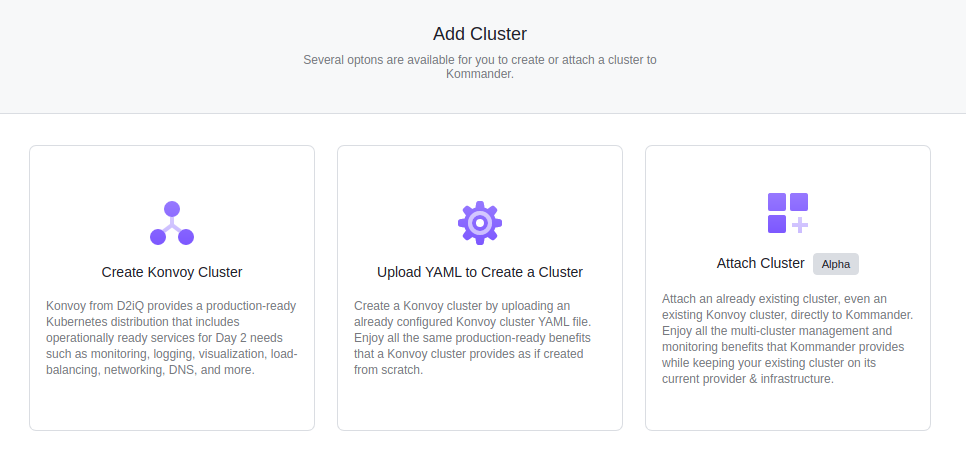
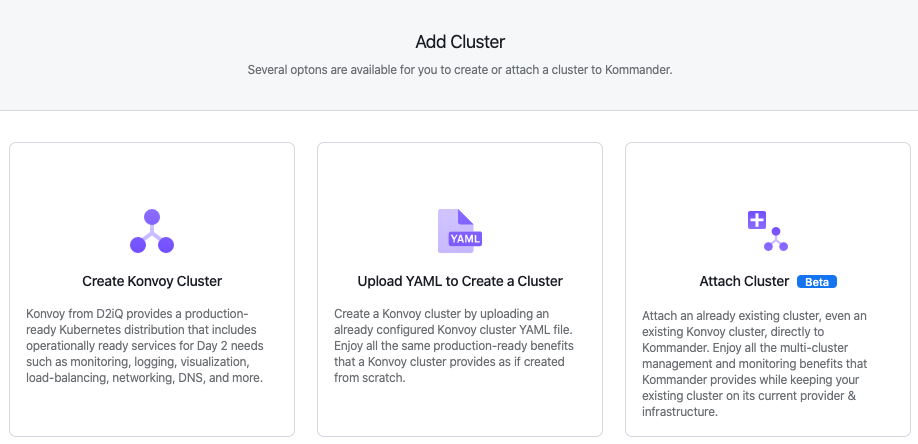
updating azure create docs

diff --git a/pages/ksphere/kommander/1.1.0-beta/clusters/creating-konvoy-cluster-azure/index.md b/pages/ksphere/kommander/1.1.0-beta/clusters/creating-konvoy-cluster-azure/index.md
@@ -6,9 +6,9 @@ menuWeight: 7
 excerpt: A guide for creating Konvoy clusters on Azure
 ---
 
-## Prerequisites
+## Before you begin
 
-Configured [Azure Infrastructure Provider](/ksphere/kommander/latest/operations/infrastructure-providers/#configuring-an-azure-infrastructure-provider)
+Configured [Azure Infrastructure Provider](/ksphere/kommander/1.1.0-beta/operations/infrastructure-providers/configure-azure-infrastructure-provider/)
 
 ## Simplified Cluster Creation on Azure
 
@@ -20,17 +20,12 @@ From the **Add Cluster** menu, select the **Create Konvoy Cluster** and provide 
 - **Kubernetes Version**: The initial version of Kubernetes to install on the cluster.
 - **Name**: A display name for referencing the cluster.
 
-Now select the preconfigured [Azure Infrastructure Provider](/ksphere/kommander/latest/operations/infrastructure-providers/#configuring-an-azure-infrastructure-provider) to display the remaining options specific to Azure.
+Now select the preconfigured [Azure Infrastructure Provider](/ksphere/kommander/1.1.0-beta/operations/infrastructure-providers/configure-azure-infrastructure-provider/) to display the remaining options specific to Azure.
 
-- **Region**: Select the datacenter region to reveal selectable Availability Zones. [Azure maintains multiple datacenters per region][azure-regions] to provide redundancy and availability.
+- **Region**: Select the datacenter region to reveal selectable Availability Zones. <a href="https://azure.microsoft.com/en-us/global-infrastructure/regions/" target="_blank">Azure maintains multiple datacenters per region>/a>.
+- **Resource Group**: The resource group where the Azure assets are assigned.
 - **VNET Name**: The virtual network name in which to create this cluster.
-- **VNET Resource Group**: The resource group where the Azure assets are assigned.
-- **VNET Route Table**: HELP NEEDED
+- **VNET Route Table**: Azure automatically routes traffic between Azure subnets, virtual networks, and on-premises networks. If you want to change any of Azure's default routing, you do so by creating a <a href="https://docs.microsoft.com/en-us/azure/virtual-network/manage-route-table" target="_blank">route table</a>.
 - **Configure Node Pools**: Specify pools of nodes, their size, and quantity. The suggested default is a control plane pool containing 3 Standard_DS3_v2 nodes and a worker pool containing 6 Standard_DS3_v2 nodes. You can also specify labels, node taints, and subnet ID's as part of each pool.
-- **Add Infrastructure Provider Tags**: Specify tags on all resources created in your infrastructure provider for this cluster. You can add up to 10 tags in this form. Different infrastructure providers have varying restrictions on their tags. See the [Azure Tags User Guide][azure_tags] for more information about using tags in Azure.
+- **Add Infrastructure Provider Tags**: Specify tags on all resources created in your infrastructure provider for this cluster. You can add up to 10 tags in this form. Different infrastructure providers have varying restrictions on their tags. See the <a href="https://docs.microsoft.com/en-us/azure/azure-resource-manager/management/tag-resources">Azure Tags User Guide</a> for more information about using tags in Azure.
 - **Add Labels**: By default, your cluster has some suggested labels that reflect the infrastructure provider provisioning. For example, in Azure your cluster may be labelled with the datacenter region as well as `provider: azure`. Cluster labels are matched to the selectors created for projects. Changing a cluster label may add or remove the cluster from projects.
-
-#Additional Information
-
-[azure-regions]: https://azure.microsoft.com/en-us/global-infrastructure/regions/
-[azure_tags]: https://docs.microsoft.com/en-us/azure/azure-resource-manager/management/tag-resources

diff --git a/pages/ksphere/kommander/1.1.0-beta/clusters/index.md b/pages/ksphere/kommander/1.1.0-beta/clusters/index.md
@@ -18,7 +18,7 @@ If you are planning on attaching more than one cluster, ensure you enter your va
 
 From the dashboard page or the clusters page, click Add Cluster and Create Konvoy Cluster.
 
-![Add Cluster Options](/ksphere/kommander/1.1.0-beta/img/add-cluster-beta-1-1-0.png)
+![Add Cluster Options](/ksphere/kommander/1.1.0-beta/img/add-cluster.png)
 
 ### Creating a Konvoy Cluster
 
